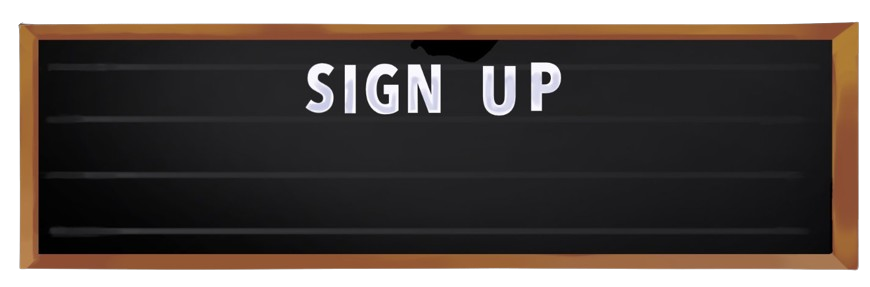
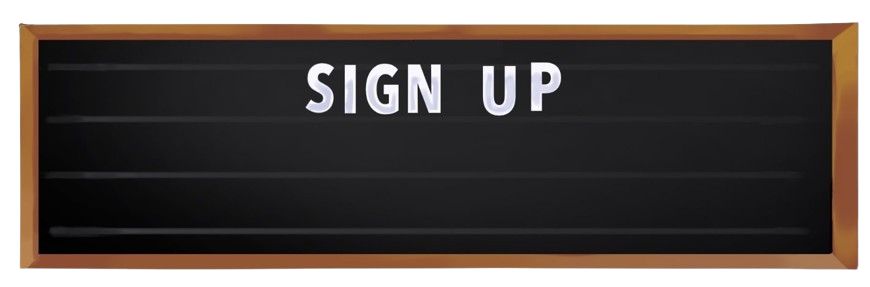
FIX - Fixed Assets

diff --git a/src/routes/+page.svelte b/src/routes/+page.svelte
@@ -115,8 +115,10 @@
 
 	</div>
 
-	<div class="w-screen h-screen overflow-hidden border-t-8 border-[#732e01]"
+	<div class="w-screen h-screen overflow-hidden border-t-8 border-[#732e01] flex flex-col items-center justify-center pointer-events-none select-none z-30"
 		 style="background: radial-gradient(ellipse at center, #7a4010 0%, #3d1c06 45%, #150800 100%)">
+		<!-- Needs to be fixed as the resolution is bad -->
+		<img src="/images/2/Instructions.png" alt="Instructions">
 	</div>
 </main>
 
